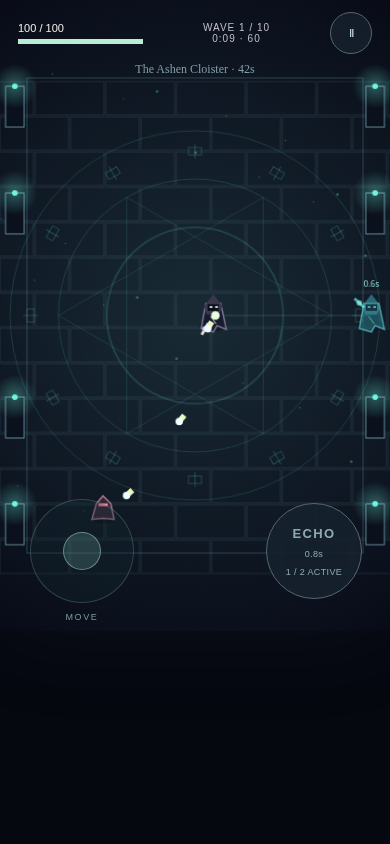
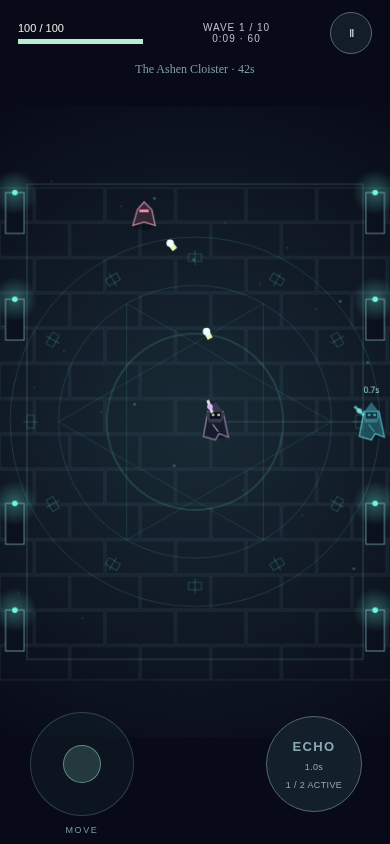
Use full mobile viewport for menus and controls

diff --git a/src/style.css b/src/style.css
@@ -25,7 +25,7 @@ button:focus-visible {
 #app {
   position: relative;
   width: min(100vw, calc(100dvh * 420 / 680));
-  height: min(100dvh, calc(100vw * 680 / 420));
+  height: 100dvh;
   margin: auto;
   overflow: hidden;
   background: #080b17;
@@ -34,8 +34,12 @@ button:focus-visible {
   user-select: none;
 }
 canvas {
+  position: absolute;
+  top: 50%;
+  transform: translateY(-50%);
   width: 100%;
-  height: 100%;
+  height: auto;
+  aspect-ratio: 420 / 680;
   display: block;
 }
 #overlay {

diff --git a/docs/VERIFICATION.md b/docs/VERIFICATION.md
@@ -7,6 +7,7 @@
 - Mobile Chromium: tutorial, keyboard movement, Echo, pause with frozen simulation, sound setting, defeat, save/unlocks, restart, all chapter transitions, boss victory and two simultaneous real touch pointers pass.
 - Mobile WebKit: tutorial, input, Echo, pause, settings, defeat/restart, saved unlocks, upgrades, arenas and victory pass. Fixed-duration waits were replaced with state-based waits for slower software rendering. The CDP multitouch test is Chromium-specific and intentionally skipped here.
 - Desktop Chromium: the same screen flows pass. The mobile-only CDP multitouch test is intentionally skipped.
+- Final portrait layout uses the full viewport for menus/HUD/controls and centers the undistorted arena. Production smoke and the real multitouch test passed again after this layout change.
 - Final browser suite: 7 passed, 2 intentional CDP skips. WebKit was run with locally extracted Debian libraries because this container lacks root access for the normal dependency installer; its bundled runtime was launched successfully. Physical iPhone Safari is not implied by WebKit emulation.
 - Production smoke: no development test bridge, tutorial through live combat, touch pause, defeat/menu return, 320×568 settings access, no horizontal overflow and no JavaScript errors.
 - Visual inspection: production menu, live portrait combat, controls and Echo, victory screen. Production screenshots are in `docs/screenshots/`. Additional screenshots are generated by the browser tests in ignored `test-results/`.
